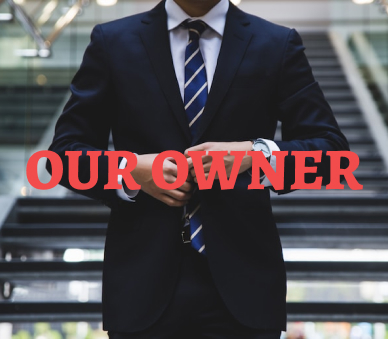
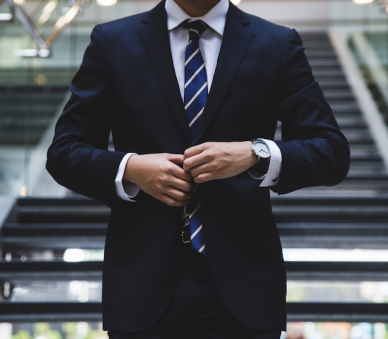
update

Changed region(s): [[0.0619, 0.4425, 0.9588, 0.5605]]

diff --git a/style.css b/style.css
@@ -39,6 +39,7 @@
      padding: 10px;
      width: 200 px;
      border-radius: 30px;
+     ;
    }
    
    button:hover{
@@ -168,8 +169,22 @@
 
 
 /* Footer */
+.footer {
+  position: relative;
+  background-color: #293462;
+  width: 100%;
+  text-align: left;
+  padding: 15px;
+ 
+}
+.footer h3{
+  color: #f9f9f9;
+}
+.footer p{
 
-
+  color: #ecf9ff;
+  justify-content: left;
+}
 
   /* eventhighlight */
   .eventhighlight {
@@ -202,10 +217,13 @@
  
   .hero-hightlight {
     height: 100vh;
-    background: url(images/hero-lilnasx.png);
+    background: url(images/hero-lilnasx.jpg);
     background-size: cover;
     display: flex;
     justify-content: center;
+    background-color: rgba(41,52,98,.67);
+    text-align: center;
+    padding: 10px;
   }
   
   /* Design */
@@ -312,14 +330,66 @@ img {
   margin-bottom: 1.25rem;    
   font-weight: 400;
 }
- 
-  
 
+.title{
+  text-align:center;
+  color:red;
+}
+
+.container{
+  width:610px;
+  margin:0 auto;
   
- 
-  
-  
-  
+}
+
+/* Overlay Cards */
+
+.overlay-container{
+  position:relative;
+  width:200px;
+  height:200px;
+  overflow: hidden;
+  display:inline-block;
+}
+
+.image {
+  display:block;
+  width: 100%;
+}
+.title{
+  color: #272727;
+  font-size: large;
+}
+.text {
+  color:#F24C4C;
+  position:absolute;
+    top:50%;
+  width:100%;
+  text-align:center;
+  font-size:20px;
+  transition:translate(-50%,50%);
+}
+
+.overlay-container:hover .overlay{
+  opacity:1;
+}
+
+.overlay{
+  position:absolute;
+  transition:all 300ms ease;
+  background:rgba(0,177,186,.6);
+  opacity:0;
+}
+
+
+.overlay-fade{
+  height:100%;
+  width:100%;
+  top:0;
+  right:0;
+}
+
+
   @media screen and (min-width: 600px) {
     .nav-toggle-label {
       display: none;

diff --git a/hightlights.html b/hightlights.html
@@ -18,7 +18,7 @@
   </div>
   
   <div class="main">
-    <h1>RECAP</h1>
+    <h1 class="title">RECAP</h1>
     <ul class="cards">
       <li class="cards_item">
         <div class="card">
@@ -90,6 +90,85 @@
       </li>
     </ul>
   </div>
+
+
+/* Information /*
+
+  
+
+<div class="container">
+
+  <div class="overlay-container">
+    <img src="images/card hover-1.jpg" class="image">
+
+    <div class="overlay overlay-fade">
+      <div class="text">
+        OUR OWNER
+      </div>
+    </div>
+
+  </div>
+  
+   <div class="overlay-container">
+    <img src="images/card hover-2.jpg" class="image"/>
+
+    <div class="overlay overlay-fade">
+      <div class="text">
+        EVENT
+      </div>
+    </div>
+
+  </div>
+  
+   <div class="overlay-container">
+    <img src="images/card hover-3.jpg" class="image">
+
+    <div class="overlay overlay-fade">
+      <div class="text">
+        SPONSORS
+      </div>
+    </div>
+
+  </div>
+
+  <div class="overlay-container">
+    <img src="images/card hover-4.jpg" 
+   class="image">
+
+   <div class="overlay overlay-fade">
+      <div class="text">
+        STAFF
+      </div>
+    </div>
+
+  </div>
+  
+   <div class="overlay-container">
+     <img src="images/card hover-5.jpg" 
+    class="image">
+
+    <div class="overlay overlay-fade">
+      <div class="text">
+        MERCHINDISE
+      </div>
+    </div>
+
+  </div>
+  
+   <div class="overlay-container">
+   <img src="images/card hover.jpg" class="image">
+
+   <div class="overlay overlay-fade">
+      <div class="text">
+        TRAVEL LOCATIONS
+      </div>
+    </div>
+
+  </div>
+  
+</div>
+  
+
   
 
 

diff --git a/index.html b/index.html
@@ -72,11 +72,14 @@
 
     
   </div>
-  <footer>
-
-    <p>© 2022 QueerOut
-      610 King of Prussia Rd, Radnor, PA 19087</br></p>
-  </footer>
+  <section class="footer">
+    <div class="footer-statement">
+      <h3>COMPANY STATEMENT</h3>
+      <p>To honor and encourage queer indivivuals to become apart of the amazing 3-5 day event that showcases The LBGTQ community while creating memories with fellow members and learning more about yourself and the importance of gay rights</p>
+    </div>
+  
+ 
+ </section>
   
  
 </html>
